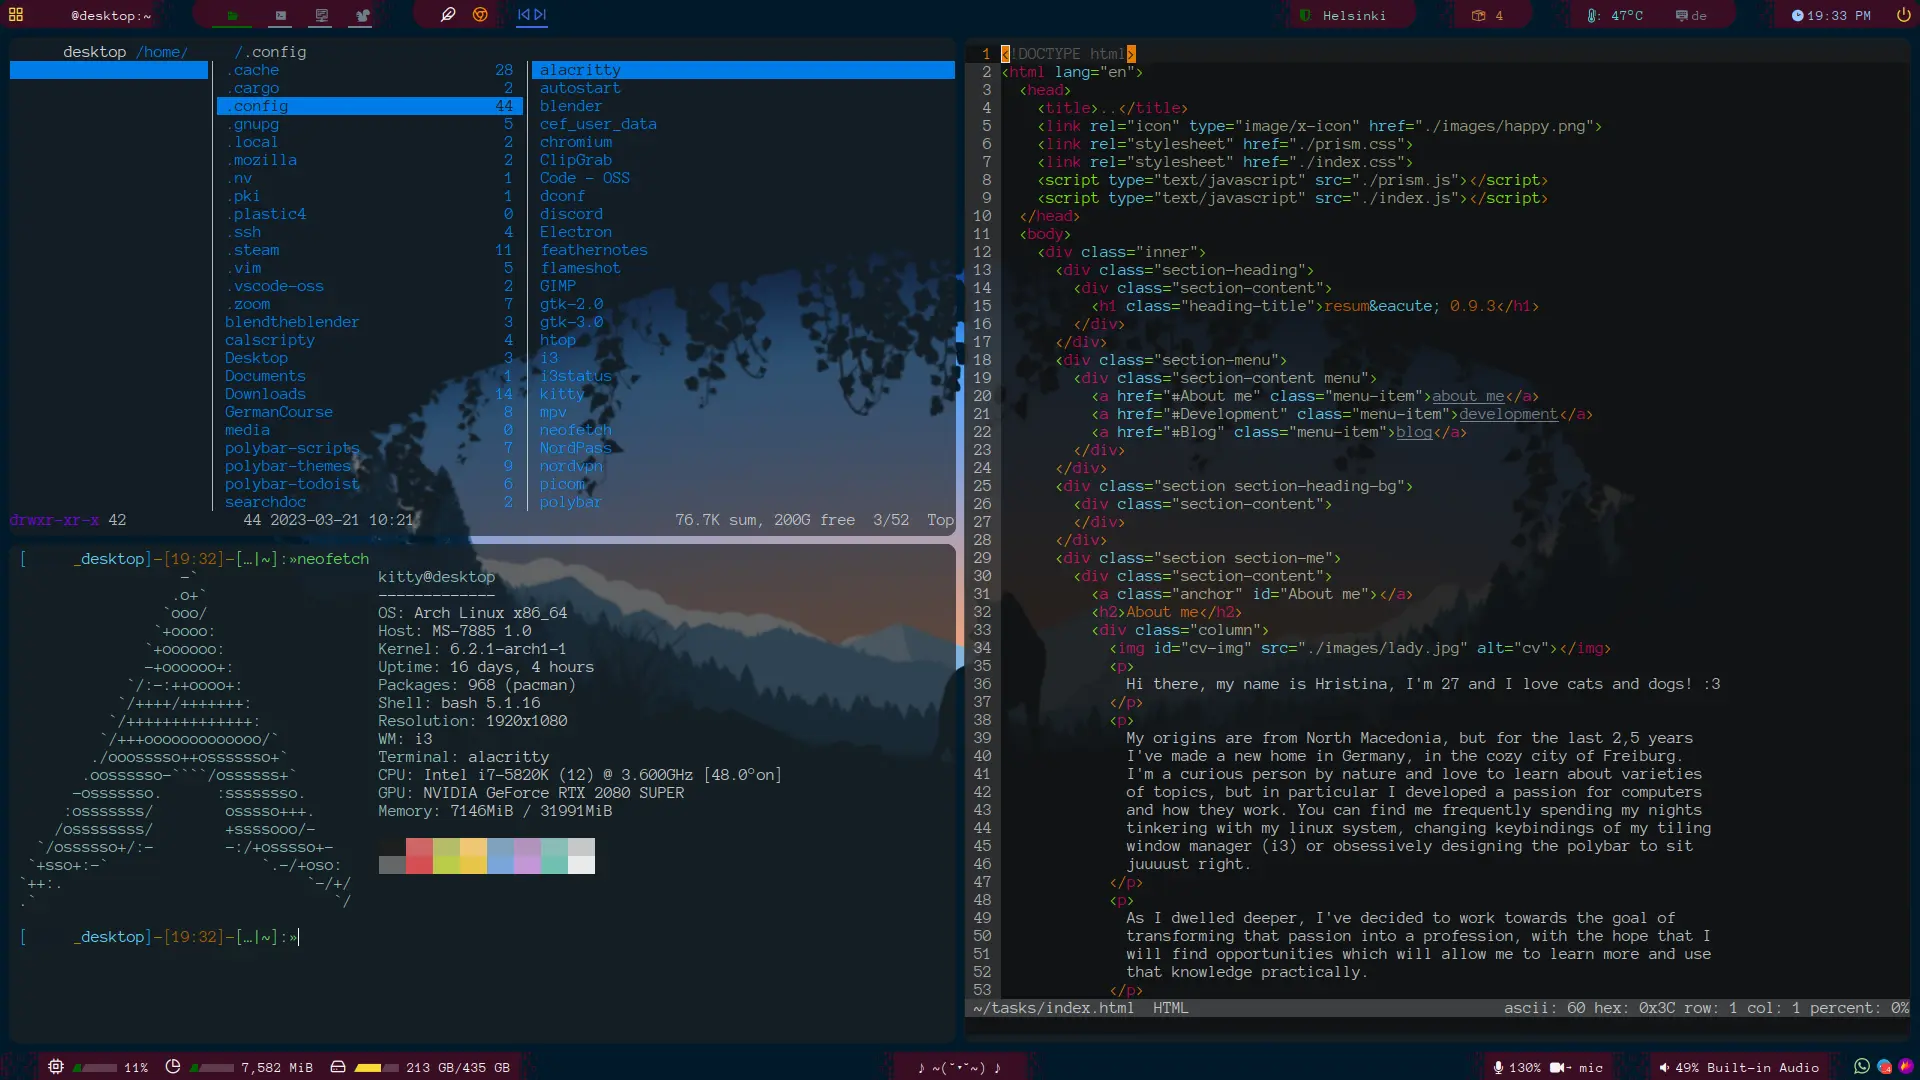
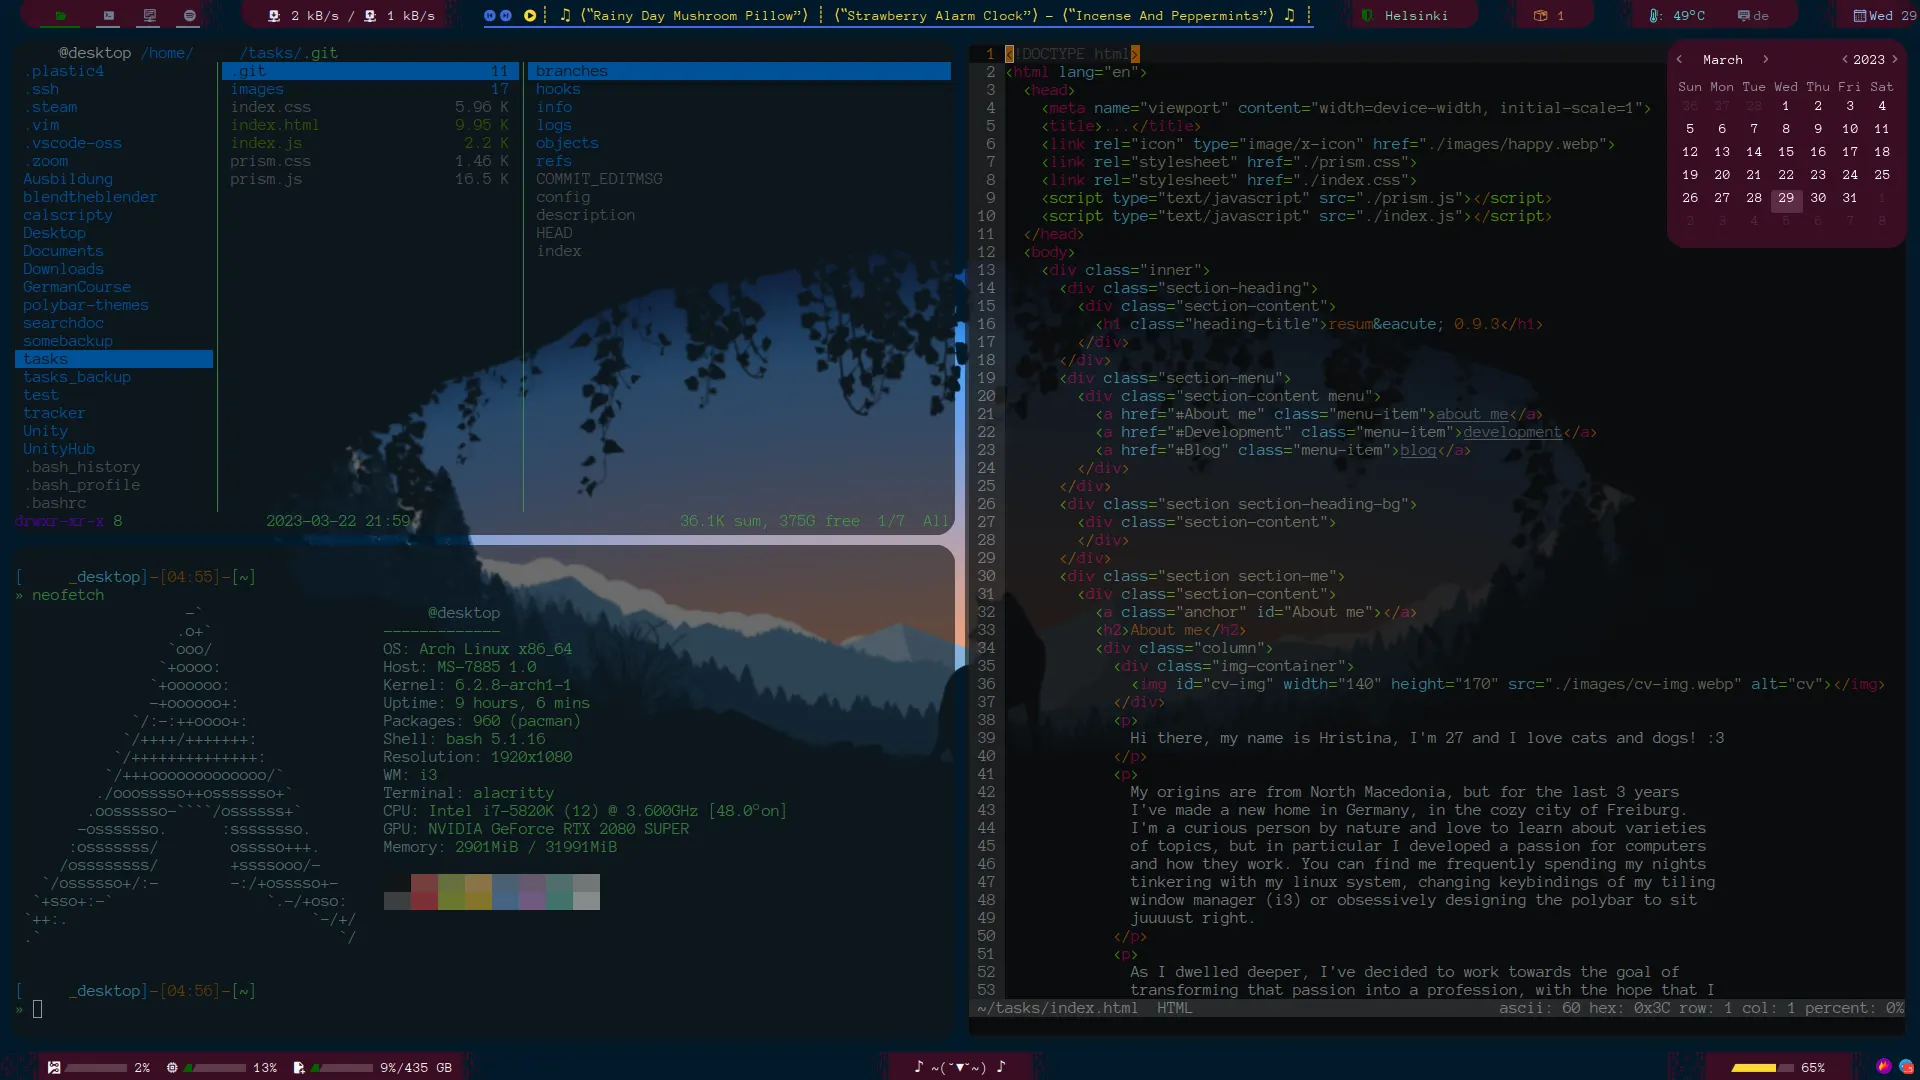
Added the CV image with few other small changes.

diff --git a/index.html b/index.html
@@ -32,12 +32,14 @@
           <a class="anchor" id="About me"></a>
           <h2>About me</h2>
           <div class="column">
-            <img id="cv-img" width="138" height="170" src="./images/lady.jpg" alt="cv"></img>
+            <div class="img-container">
+              <img id="cv-img" width="140" height="170" src="./images/cv-img.webp" alt="cv"></img>
+            </div>
             <p>
               Hi there, my name is Hristina, I'm 27 and I love cats and dogs! :3
             </p>
             <p>
-              My origins are from North Macedonia, but for the last 2,5 years
+              My origins are from North Macedonia, but for the last 3 years
               I've made a new home in Germany, in the cozy city of Freiburg.
               I'm a curious person by nature and love to learn about varieties
               of topics, but in particular I developed a passion for computers

diff --git a/index.css b/index.css
@@ -117,14 +117,21 @@ pre[class*=language-] {
     display: none;
 }
 
+.img-container {
+    width: auto;
+    height: auto;
+}
+
 #cv-img {
-    max-width: 8em;
-    max-height: 8em;
-    border-radius: 50%;
+    width: auto;
+    height: 9em;
+    border-radius: 18px 44% 44% 18px;
+    -webkit-border-radius: 18px 44% 44% 18px;
+    -moz-border-radius: 18px 44% 44% 18px;
     float: left;
     margin-right: 8px;
     shape-outside: margin-box;
-    transition: 500ms linear;
+    transition: 300ms linear;
 }
 
 #cv-img:hover {
@@ -139,7 +146,7 @@ pre[class*=language-] {
 
 #i3wm-img {
     max-width: calc(100% - 15px);
-    max-height: 55em;
+    max-height: 20em;
     margin-top: 0px;
     margin-bottom: 13px;
     display: none;
@@ -294,6 +301,7 @@ strong {
 }
 
 .sticky {
+    box-shadow: 0px 0px 8px #232a31;
     position: fixed;
     top: 0px;
     width: 100%;

diff --git a/index.js b/index.js
@@ -52,5 +52,17 @@ window.onload = function() {
         document.getElementById("i3wm-img").style.display = "block";
         btn_img.style.display = "none";
     })
+
+    //disable context-menu
+    let cv_img = document.getElementById("cv-img");
+
+    cv_img.addEventListener('contextmenu', disableRightClick, false) 
+    function disableRightClick(event) {
+        if (event.button == 2) {
+            alert("I'm sorry, right-click context menu is disabled. :)");
+            event.preventDefault();
+            return false;
+        }
+    }
 }
 
